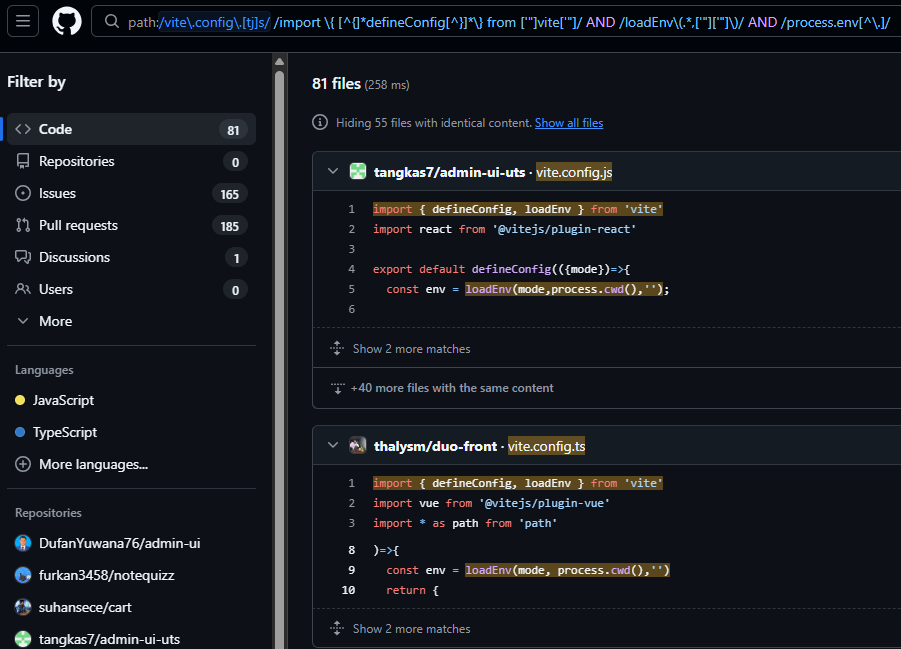
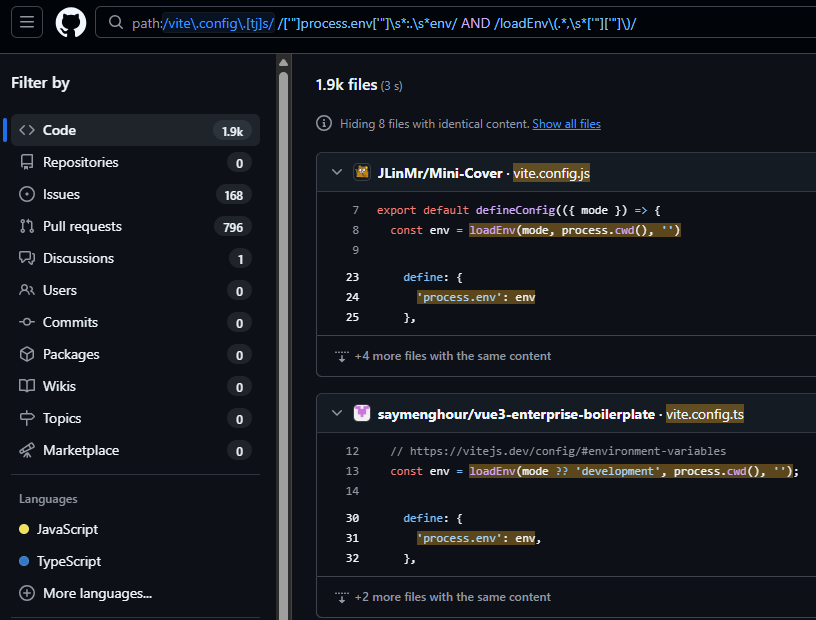
update loadenv stats

Changed region(s): [[0.0, 0.0, 1.0, 1.0], [0.0, 0.1839, 0.1532, 0.5823]]

diff --git a/_posts/2026-03-18-footguns-beware.md b/_posts/2026-03-18-footguns-beware.md
@@ -417,7 +417,7 @@ The steps for testing and reproduction are basically the same as for above:
 
 ### How bad is it?
 
-Currently, a sample GitHub [search](https://github.com/search?q=path%3A%2Fvite%5C.config%5C.%5Btj%5Ds%2F+%2Fimport+%5C%7B+%5B%5E%7B%5D*defineConfig%5B%5E%7D%5D*%5C%7D+from+%5B%27%22%5Dvite%5B%27%22%5D%2F+AND+%2FloadEnv%5C%28.*%2C%5B%27%22%5D%5B%27%22%5D%5C%29%2F+AND+%2Fprocess.env%5B%5E%5C.%5D%2F&type=code){:target="_blank"} reveals ~81 public repos using this configuration:  
+Currently, a sample GitHub [search](https://github.com/search?q=path%3A%2Fvite%5C.config%5C.%5Btj%5Ds%2F+%2F%5B%27%22%5Dprocess.env%5B%27%22%5D%5Cs*%3A.%5Cs*env%2F+AND+%2FloadEnv%5C%28.*%2C%5Cs*%5B%27%22%5D%5B%27%22%5D%5C%29%2F&type=code){:target="_blank"} reveals ~1.9K public repos using this configuration:  
 ![footgun-loadenv](/assets/images/footgun-vitejsloadenv.png)
 
 <div class="divider"></div>
